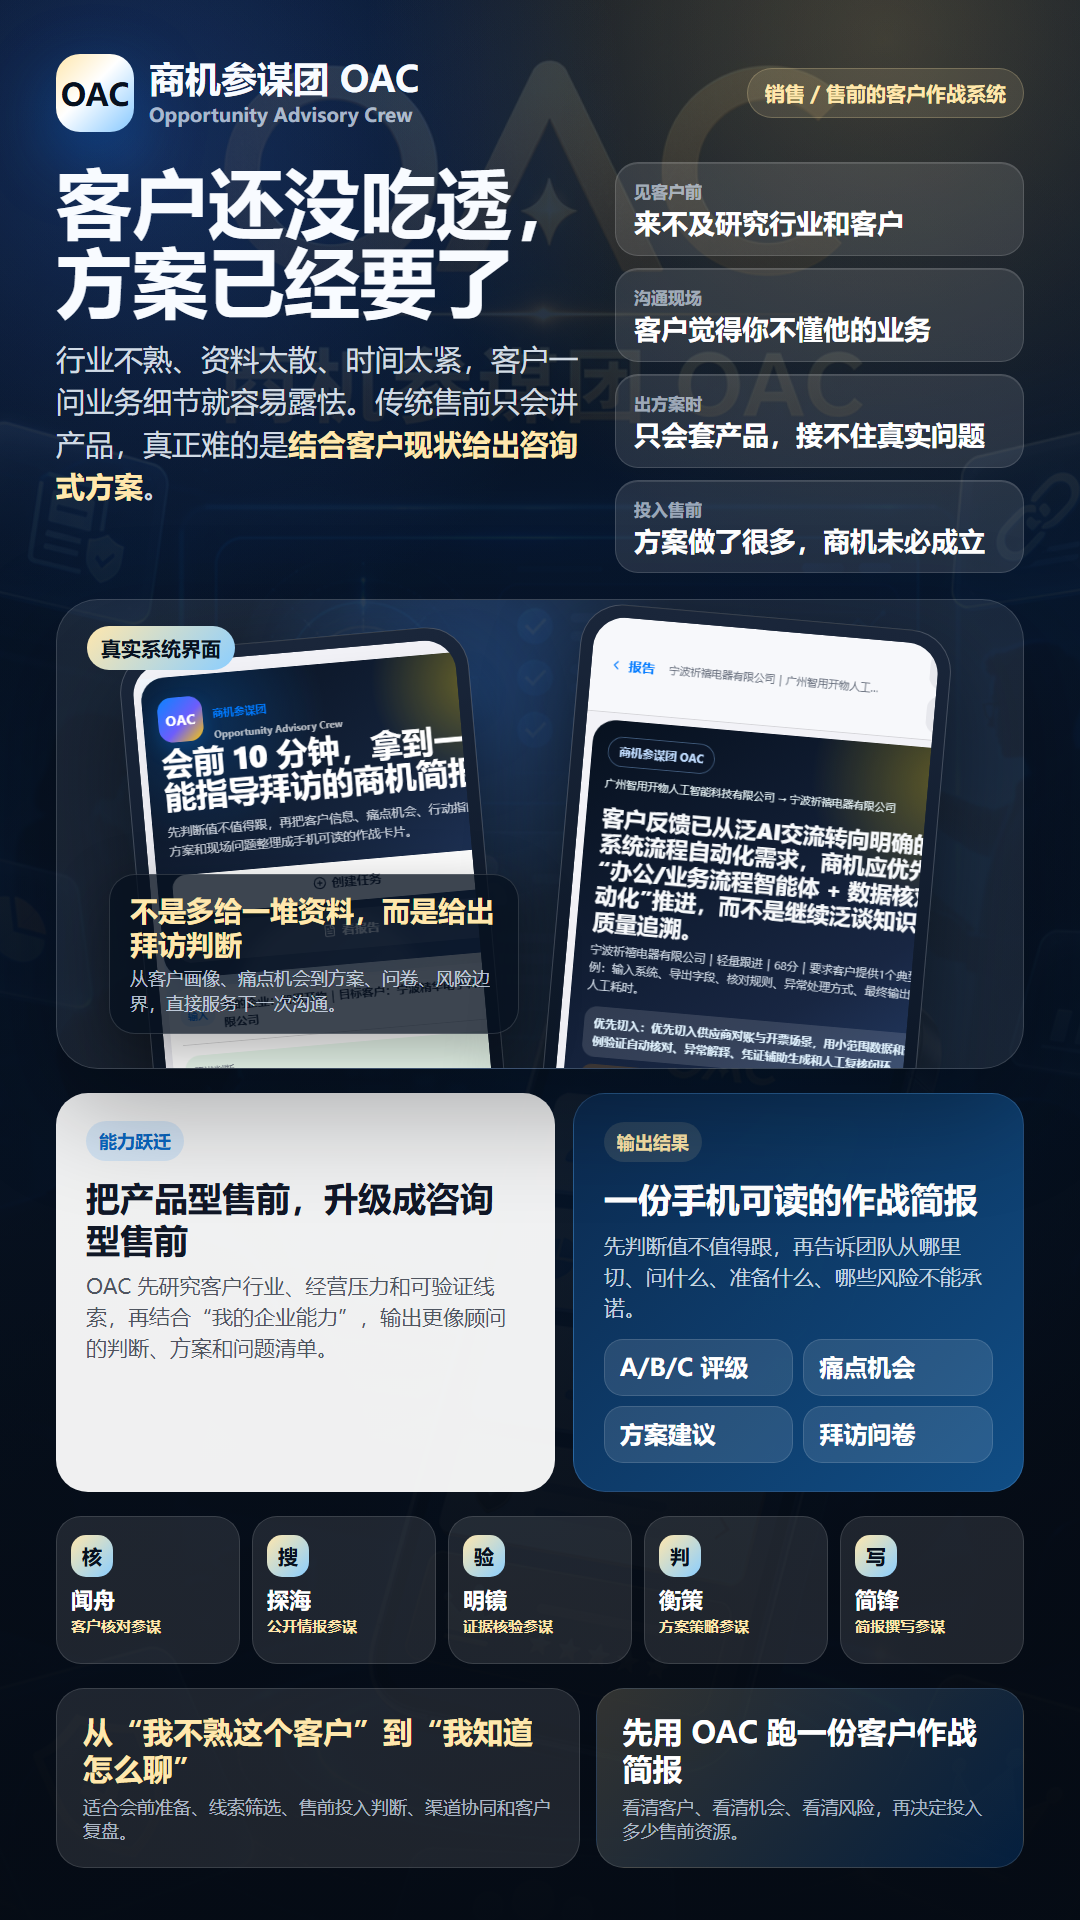
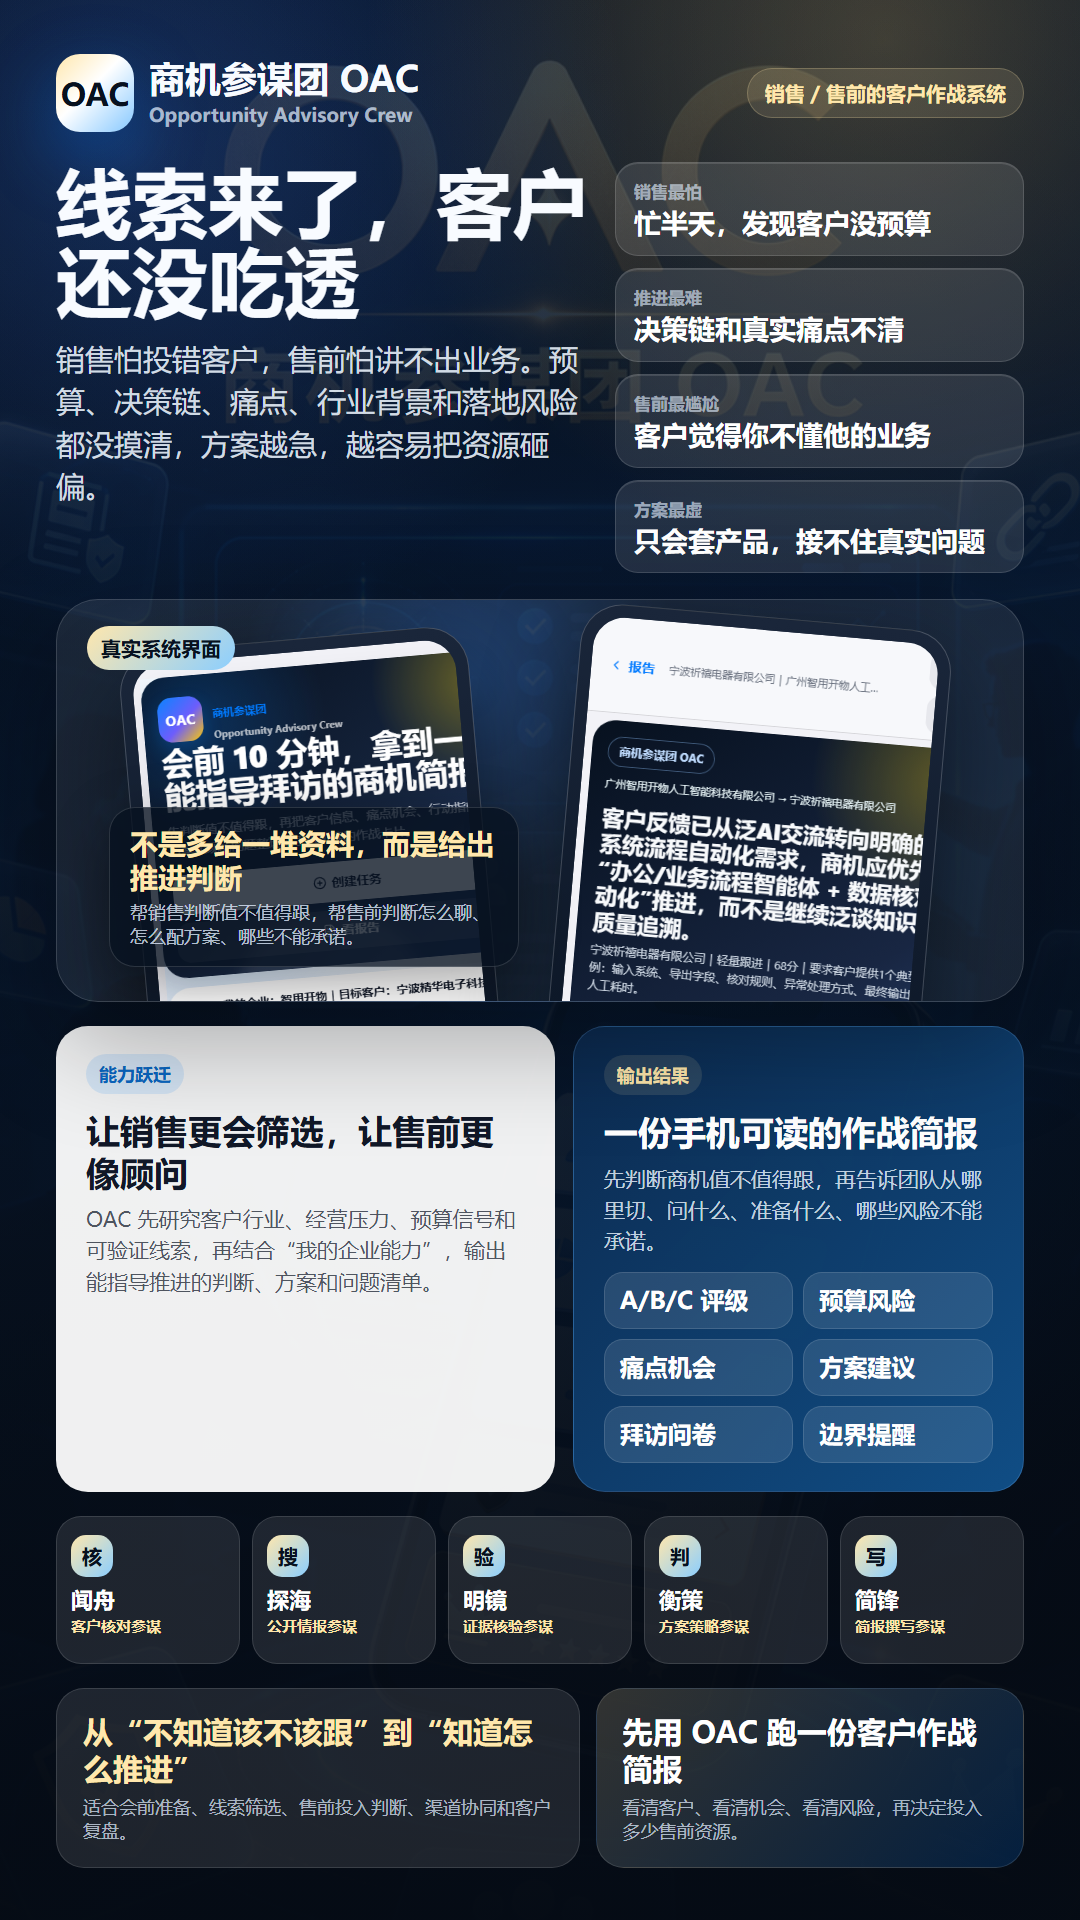
Balance OAC poster sales and presales value

diff --git a/docs-assets/oac-promo-poster.html b/docs-assets/oac-promo-poster.html
@@ -375,14 +375,14 @@
 
       <section class="hero">
         <div>
-          <h1>客户还没吃透，方案已经要了</h1>
-          <p class="lead">行业不熟、资料太散、时间太紧，客户一问业务细节就容易露怯。传统售前只会讲产品，真正难的是<strong>结合客户现状给出咨询式方案</strong>。</p>
+          <h1>销售怕投错，售前怕讲浅</h1>
+          <p class="lead">客户业务不熟、行业背景不清、预算决策不明，见客户时间又很紧。销售怕售前资源打水漂，售前怕只能讲产品，给不出<strong>贴着客户现状的咨询式方案</strong>。</p>
         </div>
         <div class="pain-grid">
-          <article class="pain"><small>见客户前</small><b>来不及研究行业和客户</b></article>
-          <article class="pain"><small>沟通现场</small><b>客户觉得你不懂他的业务</b></article>
-          <article class="pain"><small>出方案时</small><b>只会套产品，接不住真实问题</b></article>
-          <article class="pain"><small>投入售前</small><b>方案做了很多，商机未必成立</b></article>
+          <article class="pain"><small>销售痛点</small><b>线索很多，不知哪条值得重投</b></article>
+          <article class="pain"><small>销售痛点</small><b>预算、决策链、采购窗口问不实</b></article>
+          <article class="pain"><small>售前痛点</small><b>行业和客户业务来不及研究</b></article>
+          <article class="pain"><small>售前痛点</small><b>只会讲产品，难给咨询式方案</b></article>
         </div>
       </section>
 
@@ -390,26 +390,28 @@
         <div class="phone home"><img src="./oac-app-home-mobile.png" alt="OAC 首页界面截图" /></div>
         <div class="phone report"><img src="./oac-report-mobile.png" alt="OAC 报告界面截图" /></div>
         <div class="phone-note">
-          <b>不是多给一堆资料，而是给出拜访判断</b>
-          <span>从客户画像、痛点机会到方案、问卷、风险边界，直接服务下一次沟通。</span>
+          <b>不是多给一堆资料，而是给出推进判断</b>
+          <span>帮销售判断值不值得跟，帮售前判断怎么聊、怎么配方案、哪些不能承诺。</span>
         </div>
       </section>
 
       <section class="value">
         <article class="value-card">
           <span class="chip">能力跃迁</span>
-          <h2>把产品型售前，升级成咨询型售前</h2>
-          <p>OAC 先研究客户行业、经营压力和可验证线索，再结合“我的企业能力”，输出更像顾问的判断、方案和问题清单。</p>
+          <h2>让销售会筛选，让售前会咨询</h2>
+          <p>OAC 先判断商机是否成立，再研究客户行业、经营压力、预算信号和可验证痛点，最后结合“我的企业能力”，输出能指导推进的方案和问题清单。</p>
         </article>
         <article class="output-card">
           <span class="chip">输出结果</span>
           <h2>一份手机可读的作战简报</h2>
-          <p>先判断值不值得跟，再告诉团队从哪里切、问什么、准备什么、哪些风险不能承诺。</p>
+          <p>一边帮销售判断投入优先级，一边帮售前形成咨询式方案：从哪里切、问什么、讲什么价值、哪些风险不能承诺。</p>
           <div class="outputs">
-            <div>A/B/C 评级</div>
+            <div>商机评级</div>
+            <div>预算风险</div>
             <div>痛点机会</div>
-            <div>方案建议</div>
+            <div>方案打法</div>
             <div>拜访问卷</div>
+            <div>边界提醒</div>
           </div>
         </article>
       </section>
@@ -424,8 +426,8 @@
 
       <section class="bottom">
         <div class="quote">
-          <b>从“我不熟这个客户”到“我知道怎么聊”</b>
-          <span>适合会前准备、线索筛选、售前投入判断、渠道协同和客户复盘。</span>
+          <b>从“这客户值不值得跟”到“这方案该怎么讲”</b>
+          <span>适合线索筛选、会前准备、售前投入判断、渠道协同和客户复盘。</span>
         </div>
         <div class="cta">
           <b>先用 OAC 跑一份客户作战简报</b>
